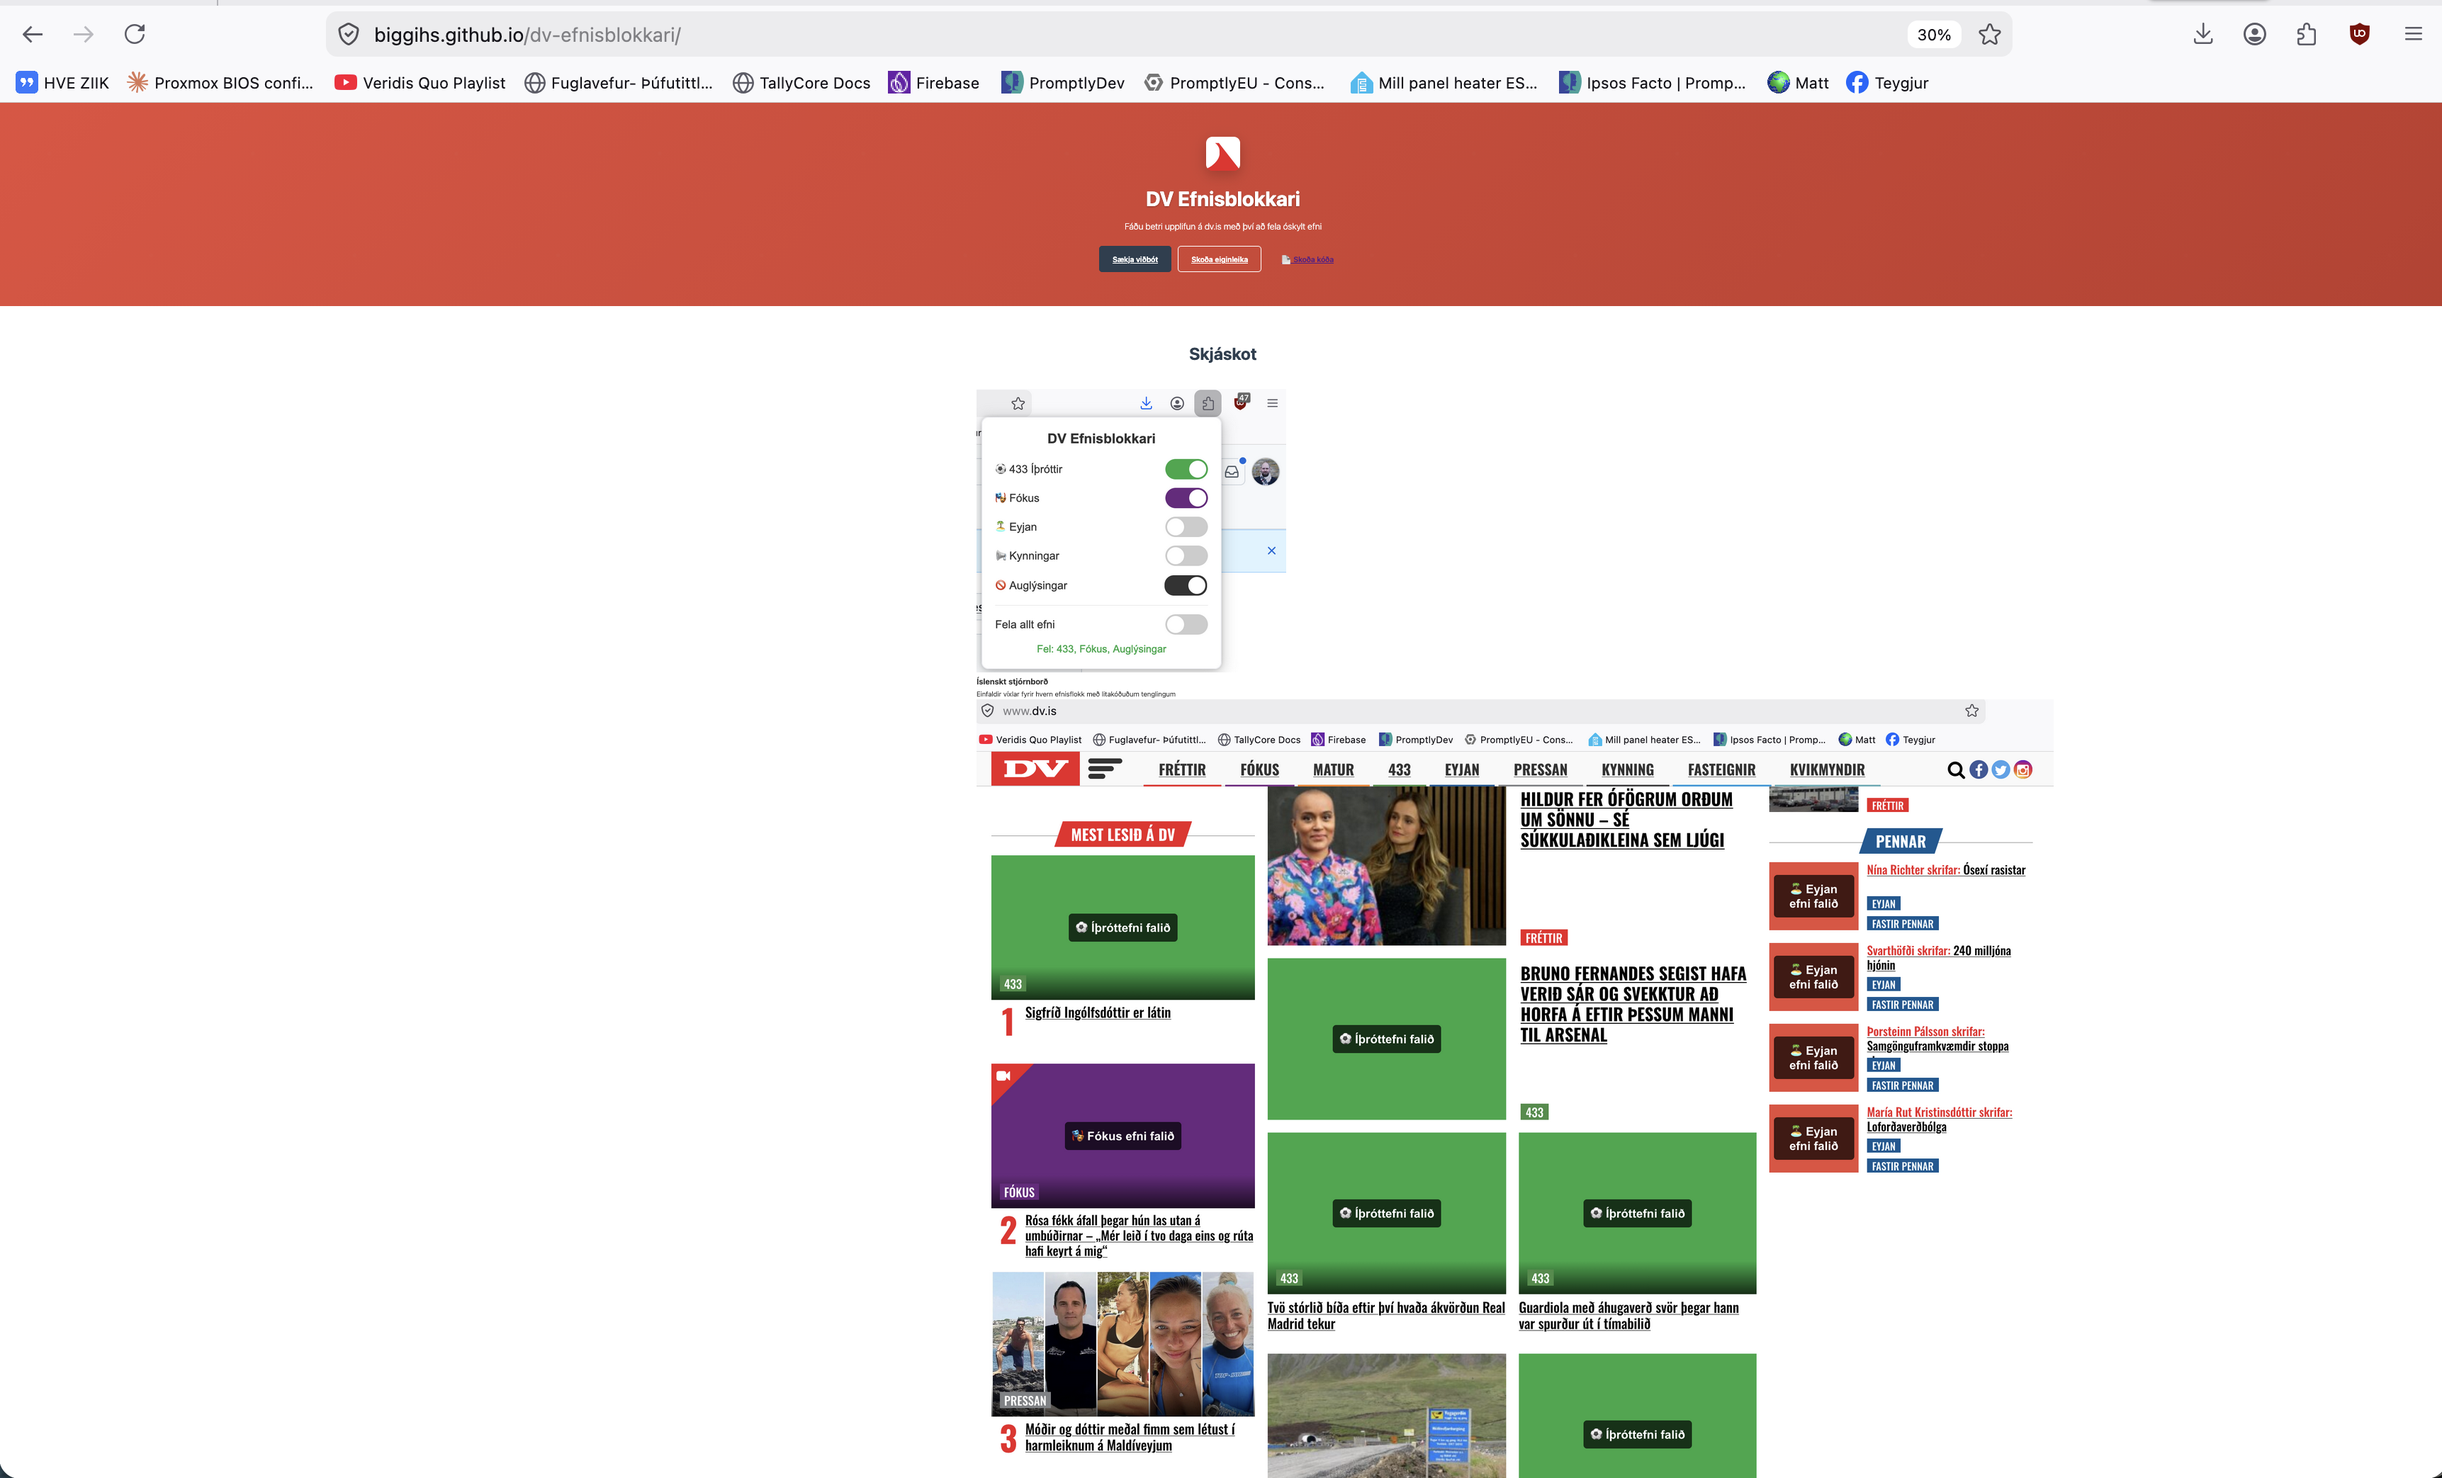
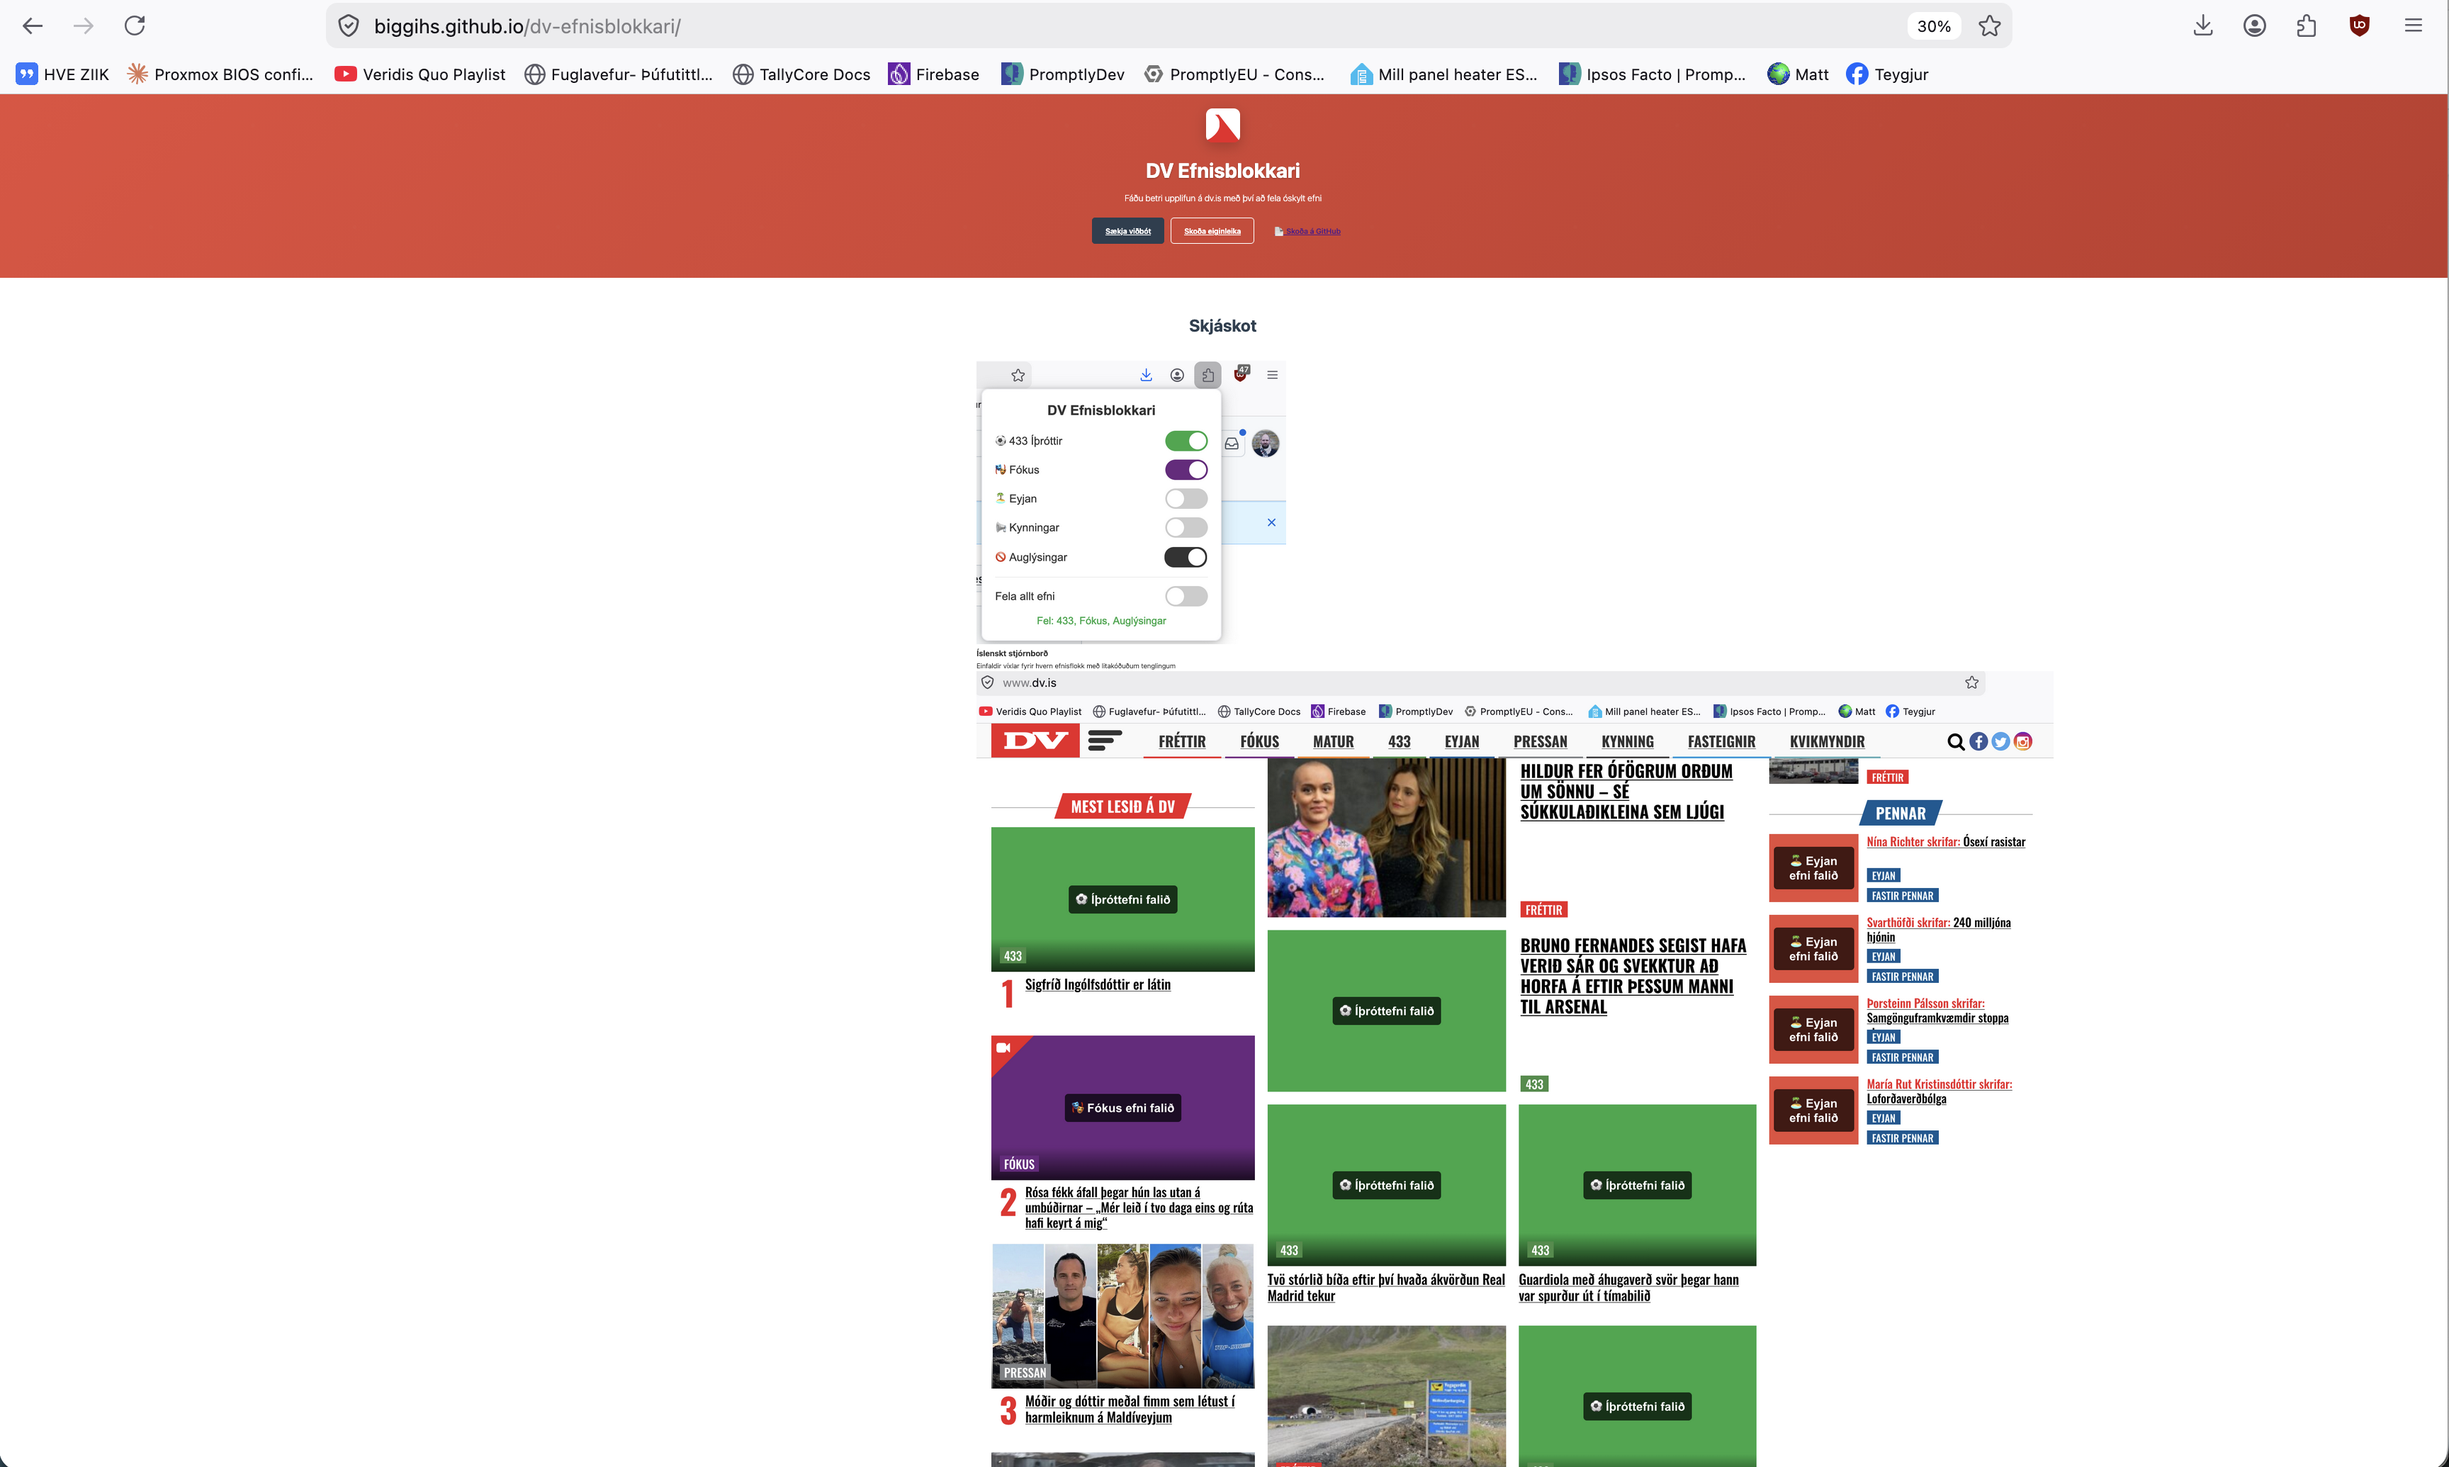
Fix oversized screenshot images with proper constraints
Major image sizing fixes:
- Reduced max-width from 500px to 300px for images
- Added max-height: 250px to prevent vertical overflow
- Changed width from 100% to auto for natural sizing
- Added margin: 0 auto for proper centering
- Reduced container max-width from 900px to 800px
- Added max-width: 400px to screenshot items
- Reduced gap from 40px to 30px for better spacing
- Added text-align: center to containers

This should resolve the oversized, right-shifted images shown in ScreenshotDebug.png
Images will now display at reasonable, centered sizes.

🤖 Generated with [Claude Code](https://claude.ai/code)

diff --git a/docs/style.css b/docs/style.css
@@ -149,22 +149,24 @@ h2 {
 
 .screenshots-grid {
     display: grid;
-    grid-template-columns: repeat(auto-fit, minmax(350px, 1fr));
-    gap: 40px;
-    max-width: 900px;
+    grid-template-columns: repeat(auto-fit, minmax(300px, 1fr));
+    gap: 30px;
+    max-width: 800px;
     margin: 0 auto;
 }
 
 .screenshot-item {
     background: white;
     border-radius: 15px;
-    overflow: hidden;
     box-shadow: 0 5px 20px rgba(0,0,0,0.08);
     transition: transform 0.3s ease;
     display: flex;
     flex-direction: column;
     align-items: center;
-    padding: 20px;
+    padding: 25px;
+    text-align: center;
+    max-width: 400px;
+    margin: 0 auto;
 }
 
 .screenshot-item:hover {
@@ -173,13 +175,15 @@ h2 {
 }
 
 .screenshot-item img {
-    width: 100%;
-    max-width: 500px;
+    width: auto;
+    max-width: 300px;
+    max-height: 250px;
     height: auto;
     display: block;
     object-fit: contain;
     border-radius: 8px;
     border: 1px solid #e9ecef;
+    margin: 0 auto;
 }
 
 .screenshot-item h3 {
